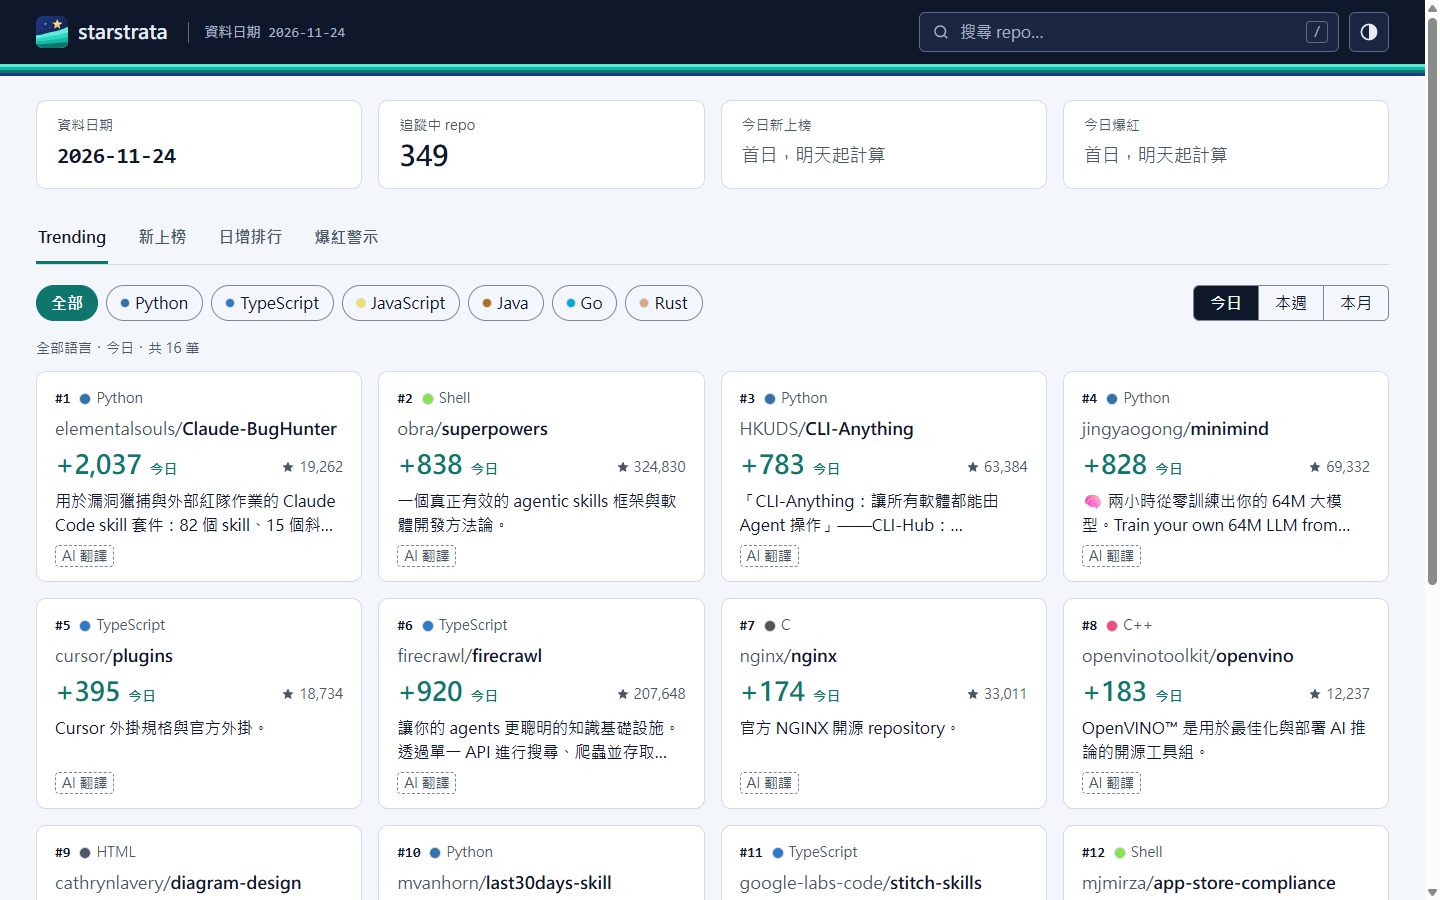
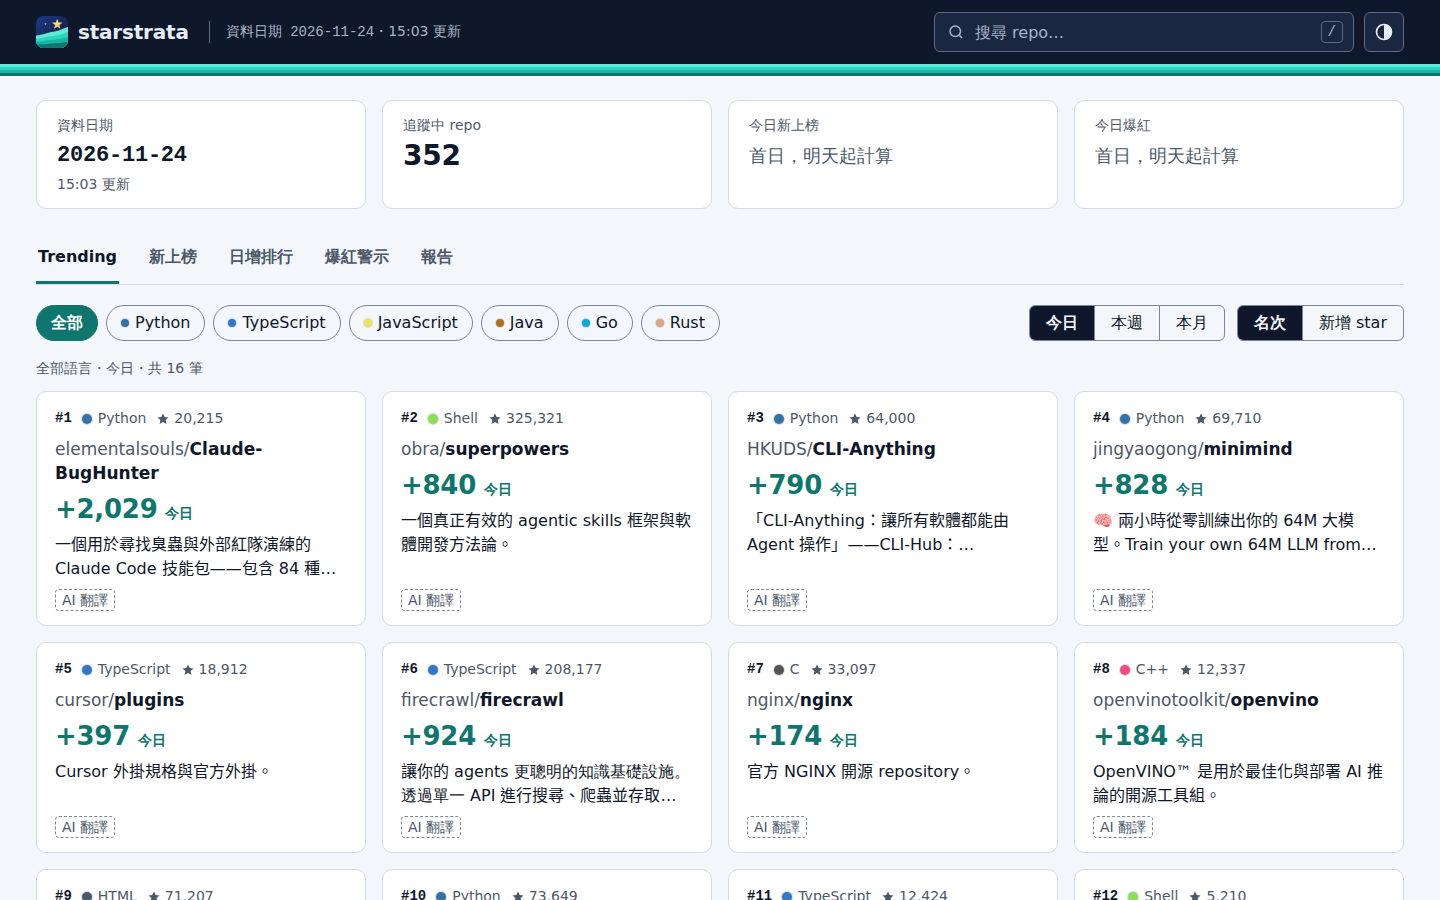
chore(scripts): 以腳本產生 README 的 dashboard 截圖
- 新增 scripts/screenshot.py，mypy 檢查範圍納入 scripts
- 以新版介面更新 docs/screenshots/trending.png

diff --git a/scripts/screenshot.py b/scripts/screenshot.py
@@ -1,0 +1,83 @@
+"""產生 README 用的 dashboard 截圖。
+
+用 data/ 的快照建置網站，在本機起 HTTP server，以 Playwright 截取 Trending 頁面。
+瀏覽器時鐘固定在資料收集完成後 2 小時，截圖不會出現資料過期的提示條。
+
+    .venv/bin/python scripts/screenshot.py [--data data] [--out docs/screenshots/trending.png]
+"""
+
+from __future__ import annotations
+
+import argparse
+import json
+import tempfile
+import threading
+from datetime import datetime, timedelta
+from functools import partial
+from http.server import SimpleHTTPRequestHandler, ThreadingHTTPServer
+from pathlib import Path
+from typing import Any
+
+from playwright.sync_api import sync_playwright
+
+from starstrata.cli import main as starstrata
+
+WIDTH, HEIGHT = 1440, 900
+
+
+class _QuietHandler(SimpleHTTPRequestHandler):
+    def log_message(self, format: str, *args: Any) -> None:
+        pass
+
+
+def capture(site: Path, out: Path) -> None:
+    meta = json.loads((site / "data" / "meta.json").read_text(encoding="utf-8"))
+    collected = meta.get("collected_at") or meta["generated_at"]
+    now = datetime.fromisoformat(collected) + timedelta(hours=2)
+    server = ThreadingHTTPServer(("127.0.0.1", 0), partial(_QuietHandler, directory=str(site)))
+    threading.Thread(target=server.serve_forever, daemon=True).start()
+    try:
+        with sync_playwright() as p:
+            browser = p.chromium.launch()
+            page = browser.new_page(
+                viewport={"width": WIDTH, "height": HEIGHT}, color_scheme="light"
+            )
+            page.clock.set_fixed_time(now)
+            page.goto(f"http://127.0.0.1:{server.server_address[1]}/")
+            page.locator(".card").first.wait_for()
+            page.wait_for_load_state("networkidle")
+            out.parent.mkdir(parents=True, exist_ok=True)
+            page.screenshot(path=str(out))
+            browser.close()
+    finally:
+        server.shutdown()
+        server.server_close()
+
+
+def main() -> int:
+    parser = argparse.ArgumentParser(description=__doc__.splitlines()[0])
+    parser.add_argument("--data", type=Path, default=Path("data"), help="快照根目錄")
+    parser.add_argument("--out", type=Path, default=Path("docs/screenshots/trending.png"))
+    args = parser.parse_args()
+    with tempfile.TemporaryDirectory() as tmp:
+        site = Path(tmp) / "site"
+        code = starstrata(
+            [
+                "--data",
+                str(args.data),
+                "--db",
+                str(Path(tmp) / "db.sqlite"),
+                "site",
+                "--out",
+                str(site),
+            ]
+        )
+        if code != 0:
+            return code
+        capture(site, args.out)
+    print(f"已寫入 {args.out}")
+    return 0
+
+
+if __name__ == "__main__":
+    raise SystemExit(main())
